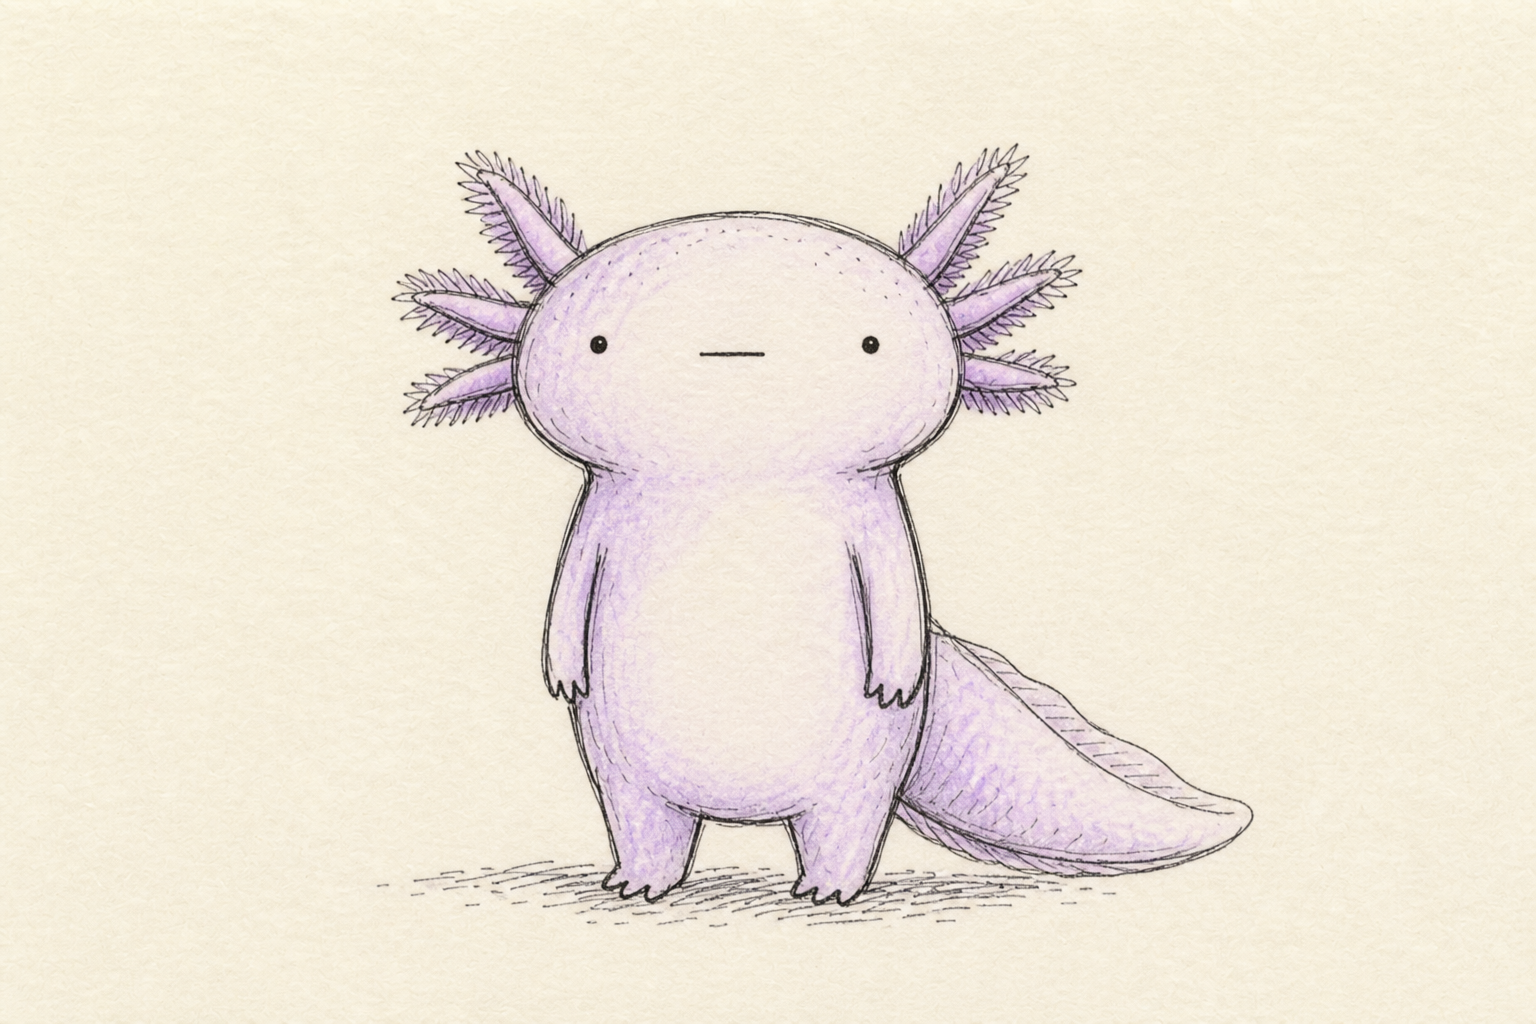
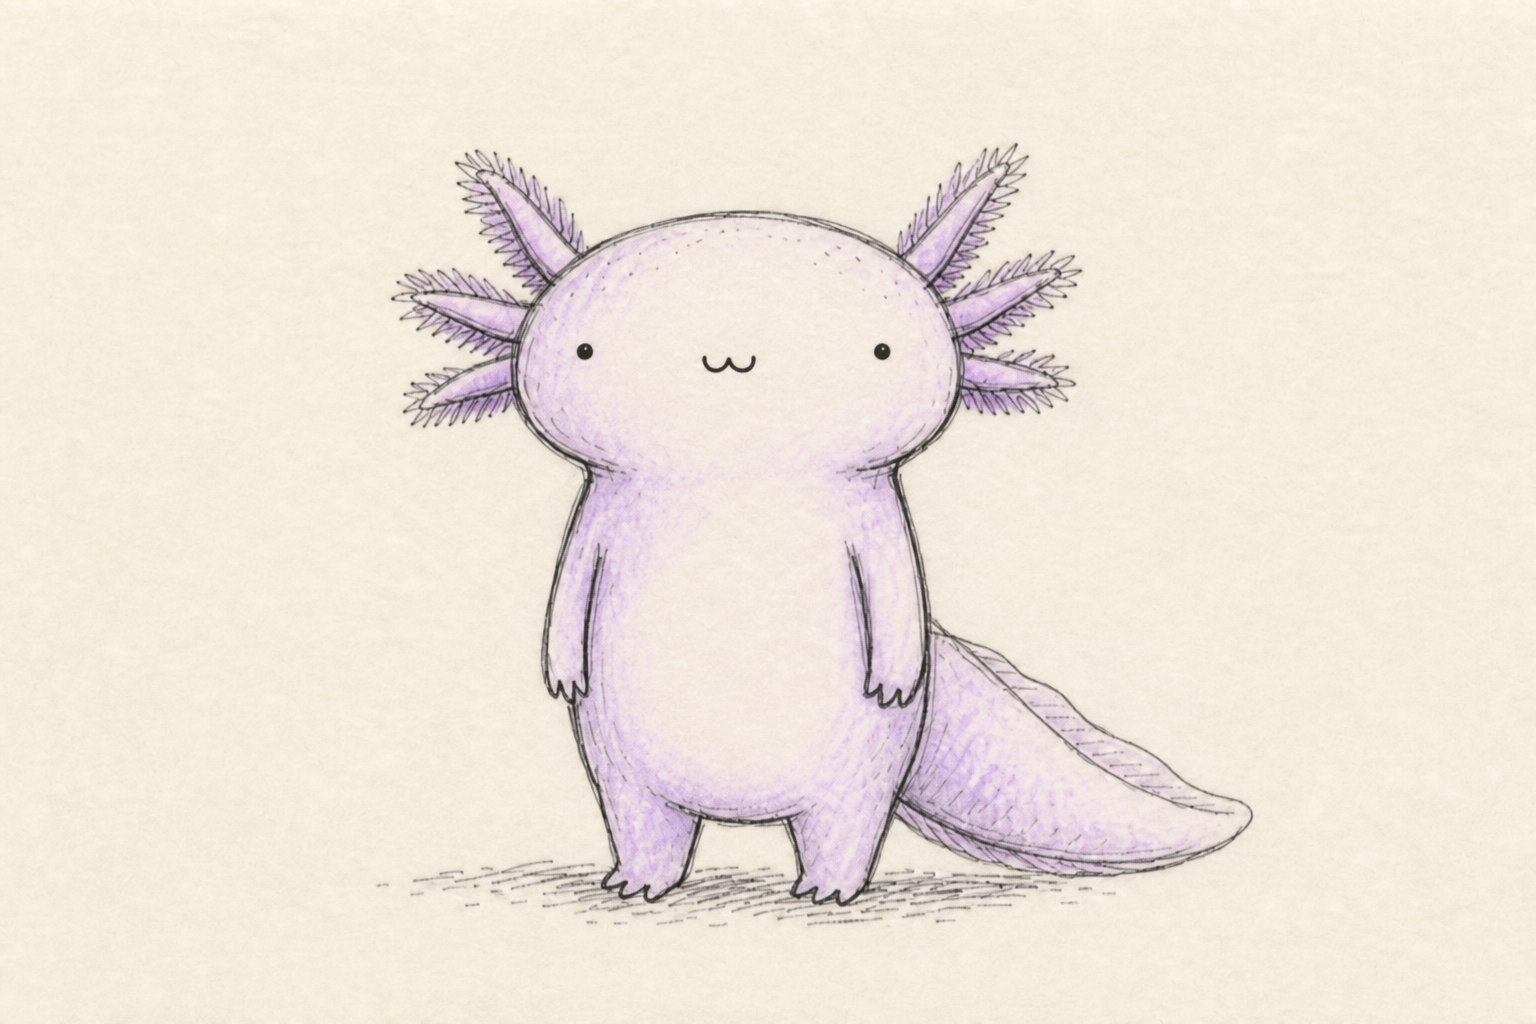
Lock face to w mouth: update eyes/mouth only, body unchanged
SVG and PNG edits preserve body shape; face matches brand reference.

diff --git a/docs/axo-face-locked-zh-TW.md b/docs/axo-face-locked-zh-TW.md
@@ -10,7 +10,7 @@
 | 部位 | 規格 | 禁止 |
 |------|------|------|
 | **眼睛** | 兩顆**極小**實心黑點；**距離偏寬**（大臉兩側，呆視前方） | 大眼白、睫毛、瞇眼、斜眼 |
-| **嘴巴** | **一條短直橫線** `_`（水平、居中、無弧度） | `w` 嘴、張口、橢圓嘴、牙齒 |
+| **嘴巴** | **小小 `w` 形嘴**（居中、略低於眼線） | 橫線 `_` 嘴、張口、橢圓嘴、牙齒 |
 | **表情** | 死板、空白、發呆、無情緒 | 笑、哭、驚訝 o 嘴（除非品牌方書面解禁） |
 
 ### SVG 數值（標準立姿 400×520）
@@ -19,7 +19,7 @@
 |------|-----|
 | 左眼 | `cx="170" cy="168" r="2.5"` |
 | 右眼 | `cx="230" cy="168" r="2.5"` |
-| 嘴 | `M 192 204 L 208 204` stroke 2px |
+| 嘴 | `M 188 202 Q 193 208 198 202 Q 203 208 208 202` stroke ~2px（tiny w） |
 
 > 換姿勢時**只移動身體**，眼嘴相對頭部位置與形狀不變。
 
@@ -46,5 +46,5 @@
 ## Midjourney 臉部片段（貼進主提示詞）
 
 ```
-very tiny solid black dot eyes far apart on wide face, one short perfectly horizontal flat line mouth, blank deadpan empty expression, no smile
+very tiny solid black dot eyes far apart on wide face, tiny centered w-shaped mouth, blank deadpan cute expression
 ```
